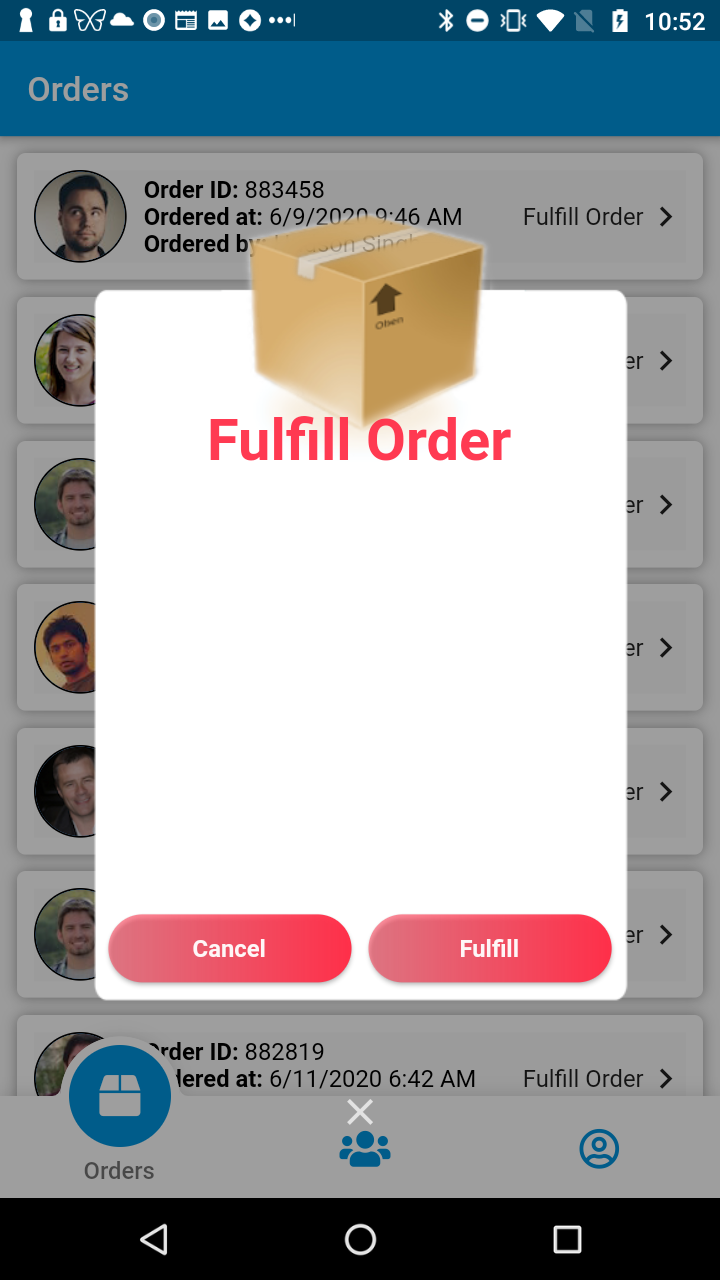
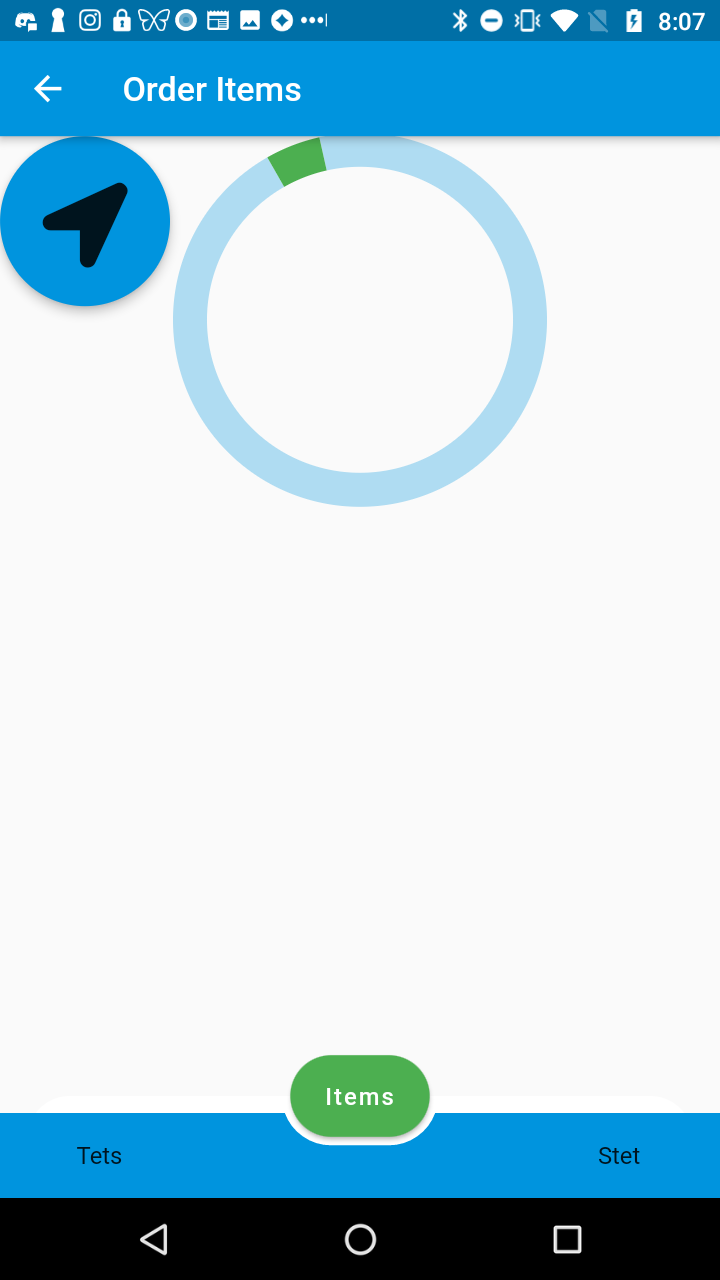
Added compass

diff --git a/lib/screens/order_fulfillment_screen.dart b/lib/screens/order_fulfillment_screen.dart
@@ -1,9 +1,15 @@
+import 'dart:math';
+
 import 'package:efika/models/item.dart';
 import 'package:efika/models/order.dart';
 import 'package:efika/models/orders.dart';
 import 'package:expandable_bottom_bar/expandable_bottom_bar.dart';
 import 'package:flutter/material.dart';
+import 'package:flutter_compass/flutter_compass.dart';
 import 'package:getflutter/getflutter.dart';
+import 'package:material_design_icons_flutter/material_design_icons_flutter.dart';
+import 'package:permission_handler/permission_handler.dart';
+import 'package:pie_chart/pie_chart.dart';
 
 import '../constants.dart';
 import '../widgets/efika_app_bar.dart';
@@ -82,14 +88,94 @@ class _OrderFulfillmentScreenState extends State<OrderFulfillmentScreen> {
   }
 }
 
-class ItemDetailView extends StatelessWidget {
+class ItemDetailView extends StatefulWidget {
   final Item item;
-
   ItemDetailView(this.item);
 
   @override
+  State<StatefulWidget> createState() => _ItemDetailViewState();
+}
+
+class _ItemDetailViewState extends State<ItemDetailView> {
+  bool isTrackingOn = false;
+
+  @override
   Widget build(BuildContext context) {
-    return Container();
+    Map<String, double> compassMap = Map();
+    compassMap.putIfAbsent('OtherPositions', () => 20);
+    compassMap.putIfAbsent('ItemPosition', () => 1);
+
+    return Column(
+      children: [
+        StreamBuilder<double>(
+          stream: FlutterCompass.events,
+          builder: (context, snapshot) {
+            if (snapshot.connectionState == ConnectionState.none &&
+                snapshot.hasData == null) {
+              return Center(
+                child: CircularProgressIndicator(),
+              );
+            }
+
+            double direction = snapshot.data;
+
+            if (direction == null) {
+              return Center(
+                child: Text('Device does not have sensors!'),
+              );
+            }
+
+            return Column(
+              children: [
+                Stack(
+                  children: [
+                    PieChart(
+                      dataMap: compassMap,
+                      chartType: ChartType.ring,
+                      showChartValueLabel: false,
+                      showChartValues: false,
+                      showChartValuesInPercentage: false,
+                      showChartValuesOutside: false,
+                      chartRadius: 200,
+                      initialAngle: direction * pi / 180,
+                      chartValueStyle: TextStyle(color: Colors.transparent),
+                      colorList: [
+                        Constants.backgroundColor.withOpacity(0.3),
+                        Constants.accentColor,
+                      ],
+                      showLegends: false,
+                    ),
+                    Positioned.fill(
+                      child: Center(
+                        child: RawMaterialButton(
+                          onPressed: () {
+                            setState(() {
+                              isTrackingOn = !isTrackingOn;
+                            });
+                          },
+                          elevation: 8.0,
+                          fillColor: isTrackingOn
+                              ? Constants.backgroundColor
+                              : Constants.backgroundColor.withOpacity(0.5),
+                          child: Icon(
+                            isTrackingOn
+                                ? MdiIcons.compass
+                                : MdiIcons.compassOff,
+                            size: 30,
+                          ),
+                          padding: EdgeInsets.all(25.0),
+                          shape: CircleBorder(),
+                        ),
+                      ),
+                    ),
+                  ],
+                ),
+              ],
+            );
+          },
+        ),
+      ],
+    );
   }
 }
 
@@ -103,6 +189,13 @@ class ItemsListView extends StatefulWidget {
 }
 
 class _ItemsListViewState extends State<ItemsListView> {
+  @override
+  void initState() {
+    super.initState();
+
+    _fetchPermissionStatus();
+  }
+
   @override
   Widget build(BuildContext context) {
     return Container(
@@ -140,5 +233,12 @@ class _ItemsListViewState extends State<ItemsListView> {
         },
       ),
     );
+  }
+
+  void _fetchPermissionStatus() async {
+    print(await Permission.locationWhenInUse.request());
+    if (await Permission.locationWhenInUse.request().isGranted) {
+      print('Permission locationWhenInUse granted.');
+    }
   }
 }

diff --git a/lib/screens/profile_screen.dart b/lib/screens/profile_screen.dart
@@ -19,15 +19,18 @@ class ProfileScreen extends StatelessWidget {
             children: <Widget>[
               Spacer(flex: 3),
               GFAvatar(
-                backgroundImage: NetworkImage("https://media.discordapp.net/attachments/721448995322331167/721455140804231496/0.png"),
-                size: GFSize.LARGE*3,
+                backgroundImage: NetworkImage(
+                    "https://media.discordapp.net/attachments/721448995322331167/721455140804231496/0.png"),
+                size: GFSize.LARGE * 3,
               ),
               Spacer(),
               Text("Leon Si", style: TextStyle(fontSize: 30)),
               Spacer(),
               Row(
                 children: <Widget>[
-                  Text("Store: ", style: TextStyle(fontWeight: FontWeight.bold, fontSize: 15)),
+                  Text("Store: ",
+                      style:
+                          TextStyle(fontWeight: FontWeight.bold, fontSize: 15)),
                   Text("Walmart", style: TextStyle(fontSize: 15)),
                 ],
               ),

diff --git a/lib/main.dart b/lib/main.dart
@@ -1,6 +1,5 @@
 import 'package:efika/constants.dart';
 import 'package:efika/screens/intro_screen.dart';
-import 'package:efika/screens/item_details_screen.dart';
 import 'package:efika/screens/order_fulfillment_save_item_screen.dart';
 import 'package:efika/screens/order_fulfillment_screen.dart';
 import 'package:expandable_bottom_bar/expandable_bottom_bar.dart';
@@ -70,7 +69,6 @@ class MyApp extends StatelessWidget {
         IntroScreen.routeName: (context) => IntroScreen(),
         LoginScreen.routeName: (context) => LoginScreen(),
         HomeScreen.routeName: (context) => HomeScreen(),
-        ItemDetailsScreen.routeName: (context) => ItemDetailsScreen(),
         OrderFulfillmentScreen.routeName: (context) =>
             DefaultBottomBarController(
               child: OrderFulfillmentScreen(),

diff --git a/lib/screens/orders_screen.dart b/lib/screens/orders_screen.dart
@@ -77,7 +77,6 @@ class OrdersScreen extends StatelessWidget {
                   _popup.button(
                     label: 'Cancel',
                     onPressed: Navigator.of(context).pop,
-                    color: Colors.red,
                   ),
                   _popup.button(
                     label: 'Fulfill',
